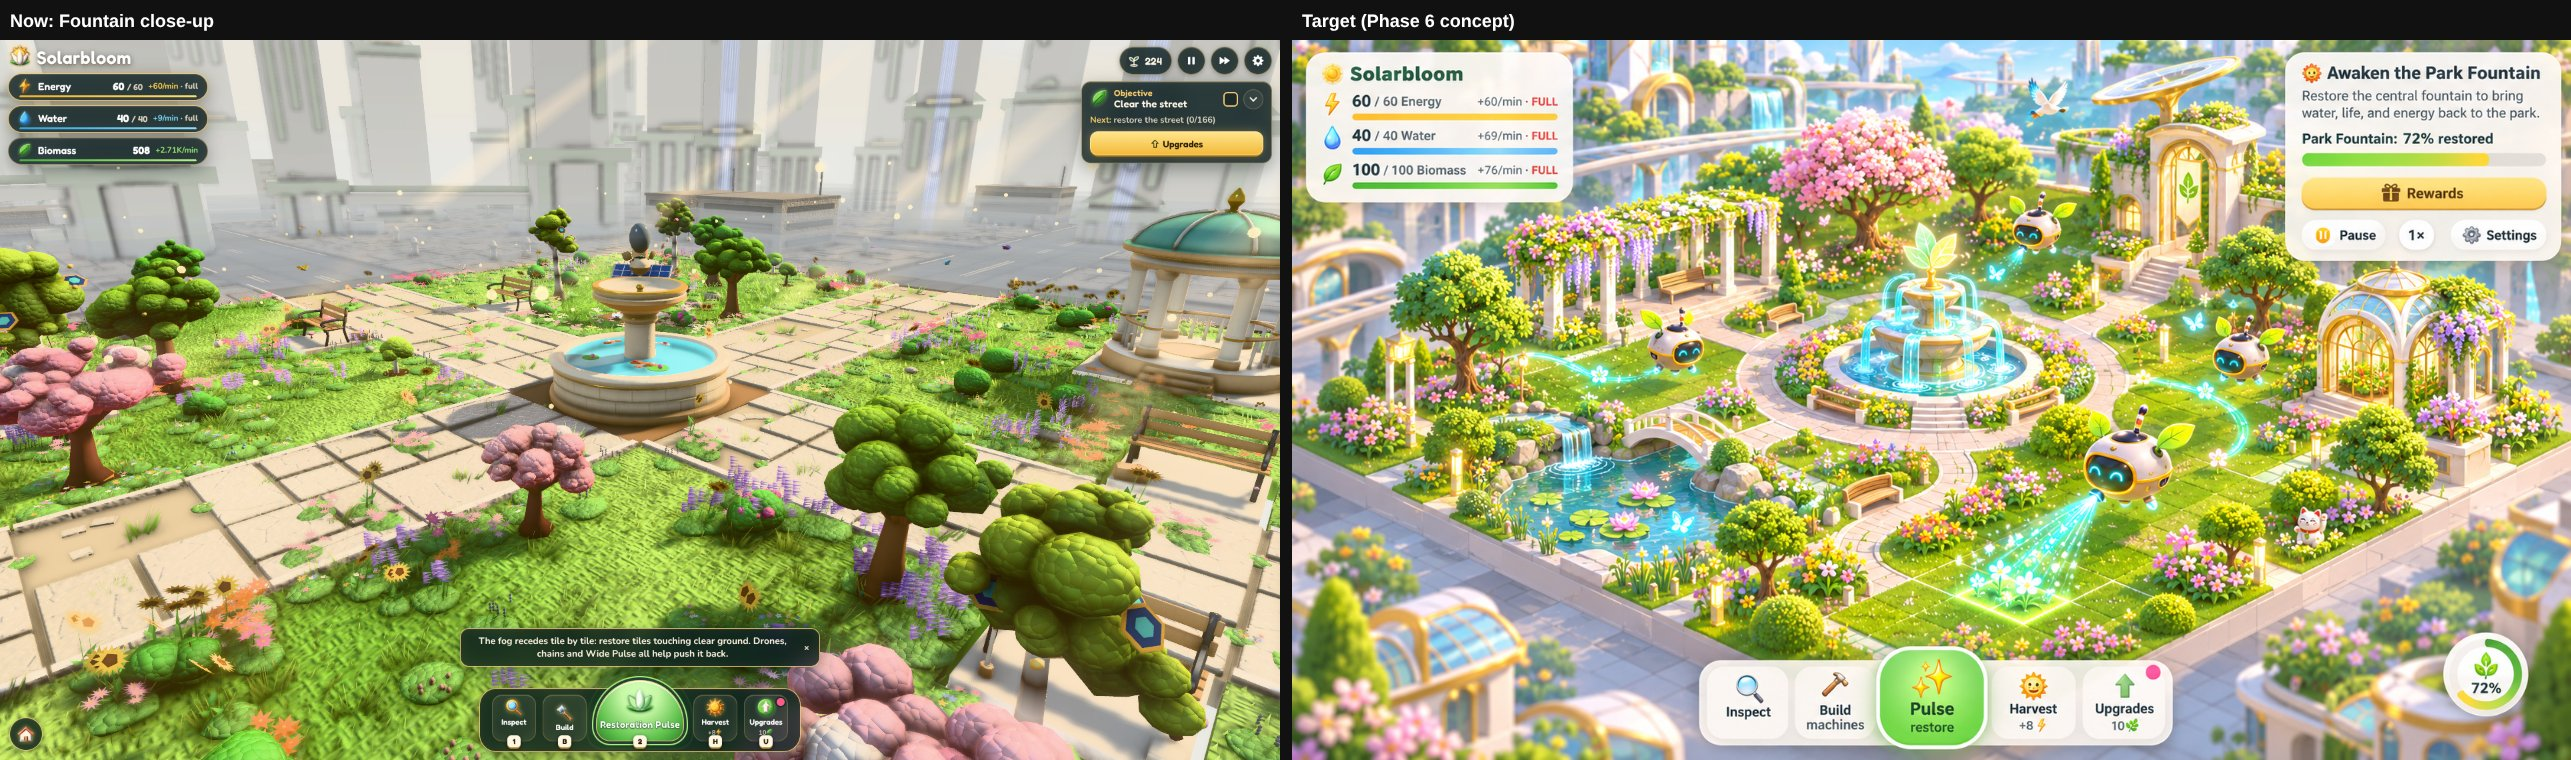
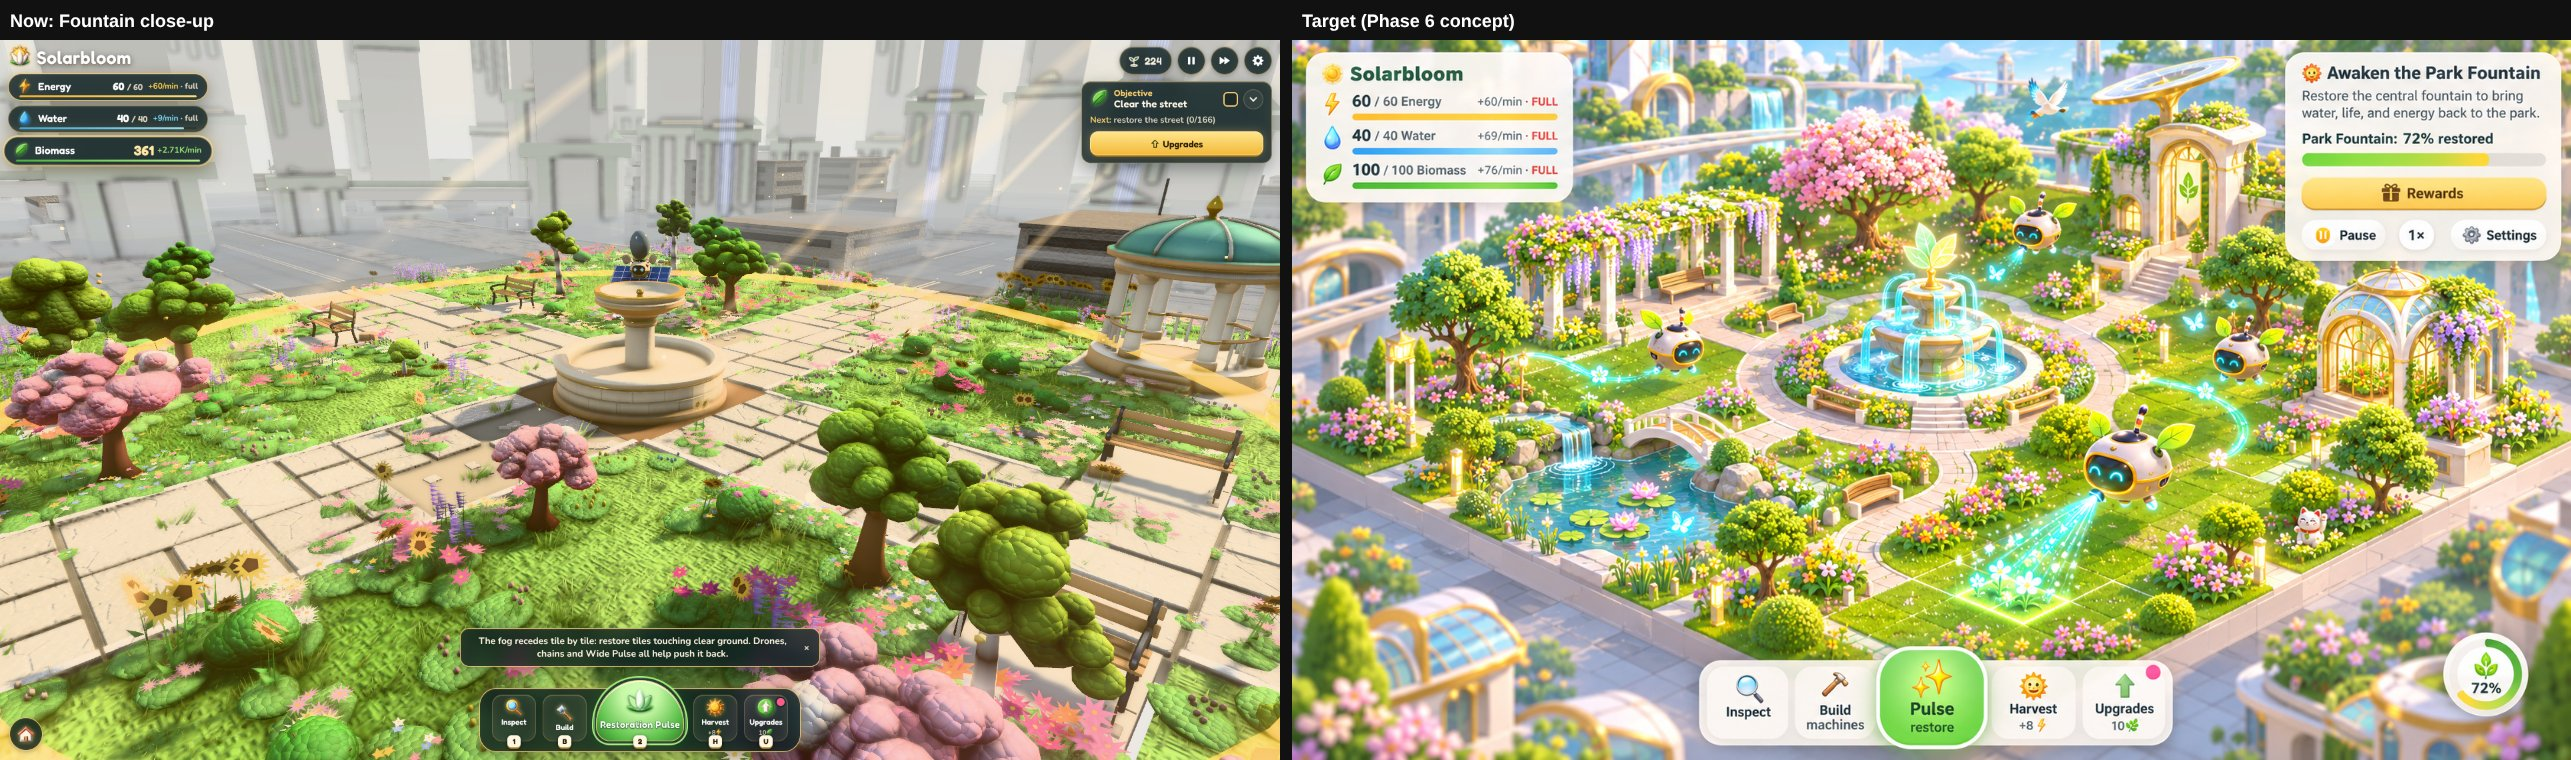
Life pass: short soft lawn, fewer tall tufts; softer larger leaf pattern and brighter tree crowns
Claude-Session: https://claude.ai/code/session_01SpBr3NuFhxMqy5qZqSwgwu

Changed region(s): [[0.0, 0.1513, 0.4979, 1.0], [0.3423, 0.0908, 0.4356, 0.1513], [0.1245, 0.0605, 0.1556, 0.0908]]

diff --git a/src/rendering/TreeGen.ts b/src/rendering/TreeGen.ts
@@ -369,7 +369,7 @@ function leafPalette(sp: Species, R: () => number, stage: TreeStage): Palette {
     }
     case 'birch': {
       const h = j(...PALETTE.leaf.hue.birch);
-      return { base: hsl(h, 54, 34), light: hsl(h - 12, 62, 52), dark: hsl(h + 26, 46, 18) };
+      return { base: hsl(h, 58, 40), light: hsl(h - 18, 70, 60), dark: hsl(h + 18, 48, 22) };
     }
     case 'pine': {
       const h = j(...PALETTE.leaf.hue.pine);
@@ -377,11 +377,12 @@ function leafPalette(sp: Species, R: () => number, stage: TreeStage): Palette {
     }
     case 'willow': {
       const h = j(...PALETTE.leaf.hue.willow);
-      return { base: hsl(h, 48, 38), light: hsl(h - 12, 58, 56), dark: hsl(h + 22, 42, 20) };
+      return { base: hsl(h, 54, 42), light: hsl(h - 16, 66, 62), dark: hsl(h + 18, 46, 24) };
     }
     default: {
       const h = j(...PALETTE.leaf.hue.oak) - (stage === 4 ? 6 : 0);
-      return { base: hsl(h, 52, 30), light: hsl(h - 14, 60, 47), dark: hsl(h + 28, 50, 15) };
+      // Phase 6: brighter crowns with yellow-green sunlit tops and deep green undersides, like the reference
+      return { base: hsl(h, 56, 38), light: hsl(h - 22, 70, 58), dark: hsl(h + 18, 50, 20) };
     }
   }
 }

diff --git a/src/rendering/Surfaces.ts b/src/rendering/Surfaces.ts
@@ -145,7 +145,8 @@ export function grassTufts(c: DressCtx, t: TileData, stage: number, x: number, z
   // tufts on top. The carpet goes at mid zoom too, except on Low, where it waits for near zoom.
   if (base === undefined && stage >= 1 && (c.lod === 2 || c.dens >= 0.4))
     c.fb.add(turfGeo(stage, t.variant + Math.floor(hash01(t.x, t.z, 15) * 4), lod), x, top, z, Math.floor(hash01(t.x, t.z, 16) * 4) * (Math.PI / 2), 1);
-  const n = Math.round((base ?? [2, 2, 3, 4, 4][stage]) * c.dens);
+  // Phase 6: open lawn keeps one taller tuft at most (the carpet does the work); edges pass their own `base`
+  const n = Math.round((base ?? [2, 1, 1, 1, 1][stage]) * c.dens);
   for (let i = 0; i < n; i++) {
     const px = x + (hash01(t.x * 7 + i, t.z, 11) - 0.5) * 2 * span;
     const pz = z + (hash01(t.x, t.z * 7 + i, 13) - 0.5) * 2 * span;

diff --git a/src/rendering/Flora.ts b/src/rendering/Flora.ts
@@ -383,9 +383,10 @@ export function buildTurf(stage: number, variant: number, lod: Lod): TreeGeo {
   const B = new Buf();
   const R = rng(variant * 7121 + stage * 59 + lod);
   const g = lod >= 2 ? 10 : 7;
-  const tall = stage === 1 ? 0.045 : stage === 4 ? 0.07 : 0.06;
+  // Phase 6: a short, soft lawn (the reference's grass is a smooth carpet, not a shag rug)
+  const tall = stage === 1 ? 0.03 : stage === 4 ? 0.042 : 0.036;
   const baseC = hex(PALETTE.bladeBase[stage]);
-  const tipC = hex(PALETTE.bladeTip[stage]);
+  const tipC = mix(hex(PALETTE.bladeTip[stage]), baseC, 0.55); // tips only a little lighter than the roots
   for (let j = 0; j < g; j++)
     for (let i = 0; i < g; i++) {
       const x = -0.5 + (i + 0.15 + R() * 0.7) / g * 1.06 - 0.03;

diff --git a/src/rendering/Foliage.ts b/src/rendering/Foliage.ts
@@ -182,7 +182,8 @@ const TREE_MAIN_END = /* glsl */ `
 
 let material: pc.StandardMaterial | undefined;
 /** Look 3.7: leaf pattern per quality tier: strength, normal tilt, leaves per tile (about 4 cm leaves) */
-const LEAF_TIER = { low: [0.85, 0, 26, 0], medium: [0.95, 0.35, 26, 0], high: [1, 0.5, 26, 0] } as const;
+// Phase 6: much softer and larger leaves: at full strength the pattern read as scales (broccoli) at play zoom
+const LEAF_TIER = { low: [0.3, 0, 14, 0], medium: [0.35, 0.2, 14, 0], high: [0.4, 0.3, 14, 0] } as const;
 let leafTier: keyof typeof LEAF_TIER = 'high';
 
 /** Look 3.7: the leaf pattern's quality tier (Low skips the per-leaf lighting). */
